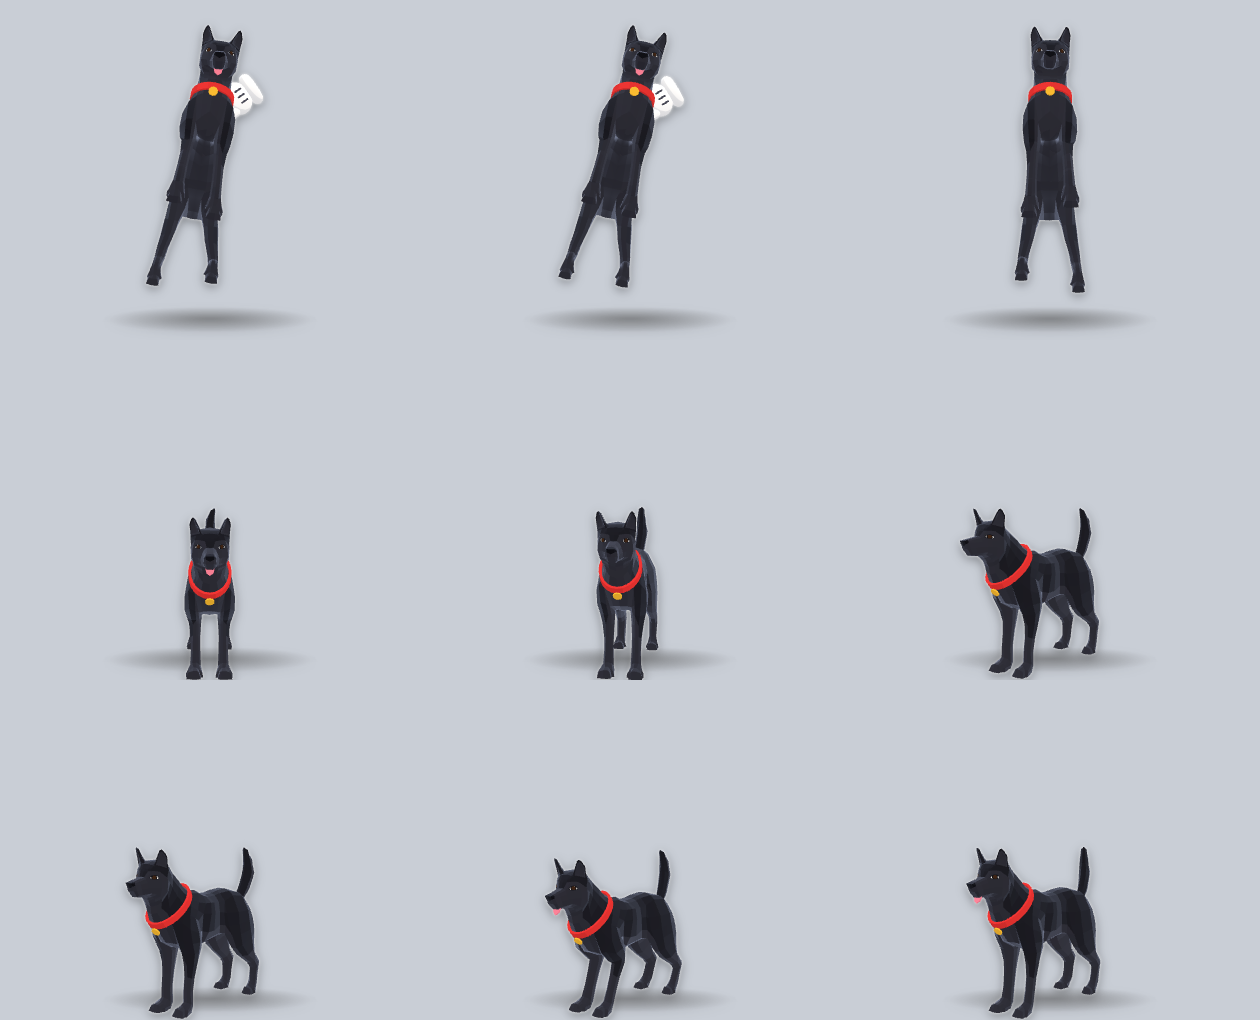
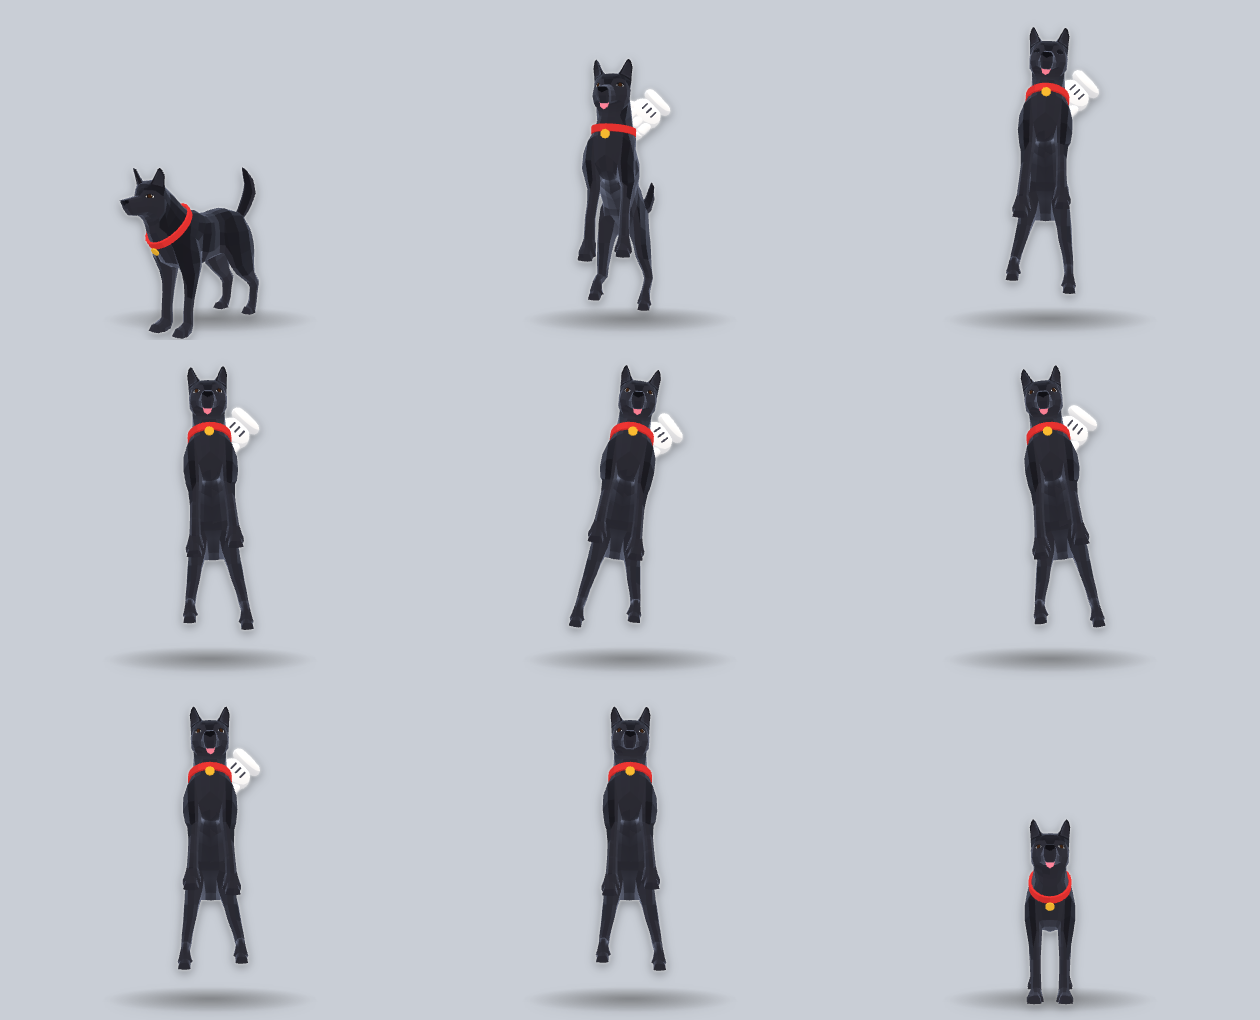
Corregir la captura de la secuencia de la mano
La captura guardada en el commit anterior no era válida: el usuario
estaba arrastrando al perro con el ratón real durante la prueba. Se
sustituye por una pasada correcta y se documenta la comprobación.

diff --git a/docs/decisiones/0017-mano-al-arrastrar.md b/docs/decisiones/0017-mano-al-arrastrar.md
@@ -59,6 +59,7 @@ Con `tools/verify/carry.mjs`, que da las órdenes sin tocar el ratón real y cap
 
 ## Incidencias
 - La primera pasada de la prueba dio resultados sin sentido: el perro ya estaba cogido antes de empezar. Lo más probable es que el usuario lo estuviera arrastrando con el ratón real en ese momento; no se ha confirmado. Repetida, salió bien.
+  - **Actualización:** volvió a ocurrir en la revisión 2 y se investigó. Con un espía puesto, en tres rondas nada soltó al perro por su cuenta; y en las dos capturas fallidas el perro aparecía cogido y balanceándose antes de que la prueba diera la orden de agarrar, cosa que solo produce un arrastre real. Era el usuario probándolo. No es un fallo de la app.
 - Una captura del escritorio real mostró al perro semitransparente. Repetida tres veces salió opaco siempre; se considera un artefacto de aquella captura.
 
 ## Qué no se ha probado
@@ -99,8 +100,8 @@ La primera versión estaba pensada para verse de perfil. Girar al perro de frent
 | Comprobación | Resultado |
 |---|---|
 | En brazos | Clip `Carry`, subido 0,70, cola al 0,90 |
-| Balanceo arrastrando a 500 px/s | 8,6° a un lado y 12,8° al otro |
-| Quieto en el aire | De 10,2° baja a 1,3° |
+| Balanceo arrastrando a 500 px/s | 8,6° a cada lado en la pasada de la captura (12,8° de máximo en otra) |
+| Quieto en el aire | De 6,7° baja a 2,1° (de 10,2° a 1,3° en otra pasada) |
 | Tras soltarlo | Contento, en el suelo, sin inclinación |
 | Con el ratón real | quieto, cogido, cae, contento, quieto; balanceo de 5,2°; mano oculta al final |
 

diff --git a/docs/bitacora.md b/docs/bitacora.md
@@ -209,3 +209,6 @@ Se hicieron juntos porque comparten ficheros y se verifican a la vez en la app r
 | 126 | Recolocar el guante en diagonal junto al cuello | Inclinación y punto de agarre en `src/behavior.ts` | Se lee como una mano cogiendo el collar | Decisión 0017, revisión 2 |
 | 127 | Dejarlo claramente en el aire | Patas traseras algo más recogidas y altura de 0,45 a 0,70 | A unos 30 px del suelo | Decisión 0017, revisión 2 |
 | 128 | Verificar la versión nueva | `carry.mjs`, arrastre con el ratón real y capturas en claro y oscuro | Correcto; balanceo de 5,2° con el ratón real | Decisión 0017, revisión 2 |
+| 129 | Guardar la secuencia de la versión nueva | `carry.mjs` y commit `9221b67` | **Captura no válida**: la prueba volvió a encontrarse al perro ya cogido, como en la acción 115 | Decisión 0017, revisión 2 |
+| 130 | Averiguar qué lo soltaba | Tres rondas con un espía que anota quién llama a coger, soltar o traer, y los eventos reales de puntero | Nada lo suelta por su cuenta. En las dos capturas fallidas el perro estaba cogido y balanceándose antes de que la prueba diera la orden: era el usuario arrastrándolo con el ratón real | Decisión 0017, revisión 2 |
+| 131 | Repetir y sustituir la captura | `carry.mjs`; mosaico revisado | `mano-v2-secuencia.png` corregida: subido 0,70, balanceo de 8,6° a cada lado, de 6,7° a 2,1° al parar | Decisión 0017, revisión 2 |
